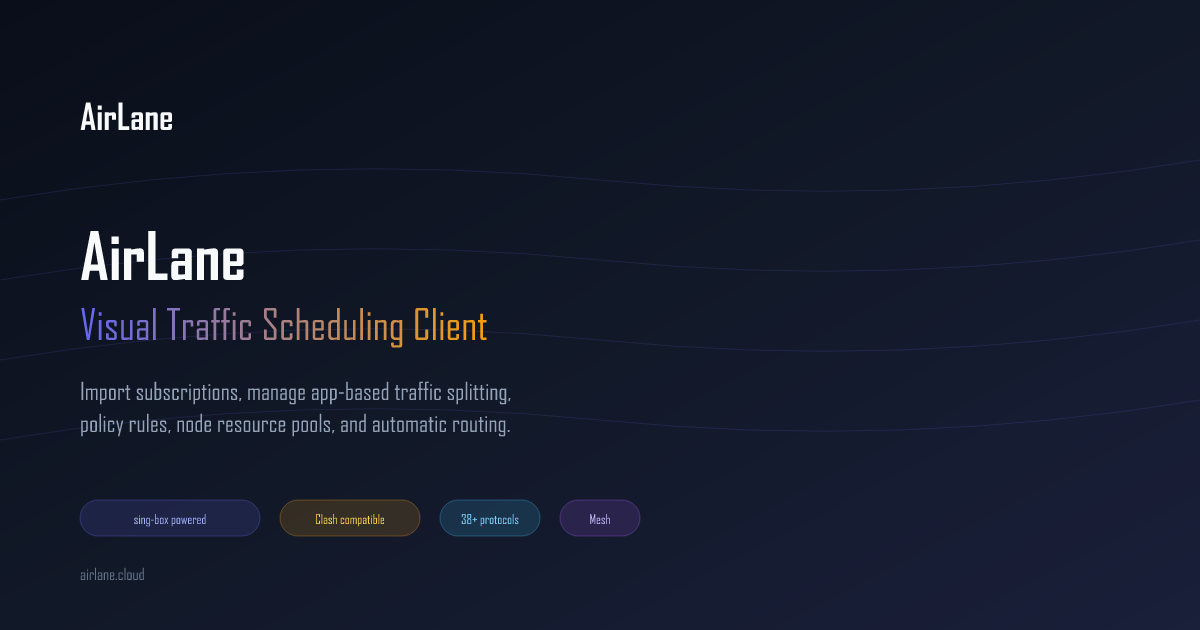
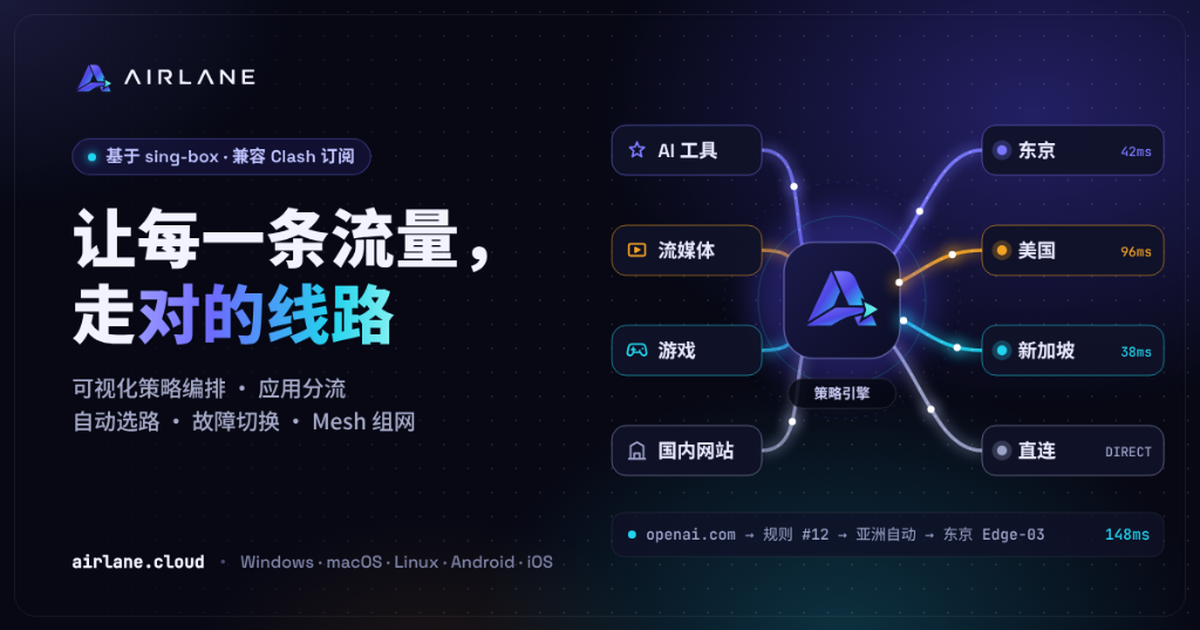
Replace OG images with localized versions
New designed OG cards (zh + en) replace the old og-image.png. Resized to
1200x630 standard. English routes and the shared landing-head helper now
emit /brand/og-image-en.png; zh pages keep /brand/og-image.png.

Generated with [Devin](https://devin.ai)

diff --git a/src/routes/en.index.tsx b/src/routes/en.index.tsx
@@ -24,12 +24,12 @@ export const Route = createFileRoute("/en/")({
       { property: "og:url", content: canonical("/en/") },
       { property: "og:site_name", content: "AirLane" },
       { property: "og:locale", content: "en_US" },
-      { property: "og:image", content: canonical("/brand/og-image.png") },
+      { property: "og:image", content: canonical("/brand/og-image-en.png") },
       { property: "og:image:width", content: "1200" },
       { property: "og:image:height", content: "630" },
       { name: "twitter:card", content: "summary_large_image" },
       { name: "twitter:title", content: "AirLane | Visual Traffic Scheduling Client" },
-      { name: "twitter:image", content: canonical("/brand/og-image.png") },
+      { name: "twitter:image", content: canonical("/brand/og-image-en.png") },
       {
         name: "twitter:description",
         content:

diff --git a/src/components/alt-landing.tsx b/src/components/alt-landing.tsx
@@ -264,10 +264,10 @@ export function altLandingHead(opts: {
       { property: "og:url", content: seo.canonical(isEn ? enPath : path) },
       { property: "og:site_name", content: "AirLane" },
       { property: "og:locale", content: isEn ? "en_US" : "zh_CN" },
-      { property: "og:image", content: seo.canonical("/brand/og-image.png") },
+      { property: "og:image", content: seo.canonical(isEn ? "/brand/og-image-en.png" : "/brand/og-image.png") },
       { name: "twitter:card", content: "summary_large_image" },
       { name: "twitter:title", content: opts.ogTitle },
-      { name: "twitter:image", content: seo.canonical("/brand/og-image.png") },
+      { name: "twitter:image", content: seo.canonical(isEn ? "/brand/og-image-en.png" : "/brand/og-image.png") },
     ],
     links: [
       { rel: "canonical", href: seo.canonical(isEn ? enPath : path) },

diff --git a/src/routes/en.mihomo-alternative.tsx b/src/routes/en.mihomo-alternative.tsx
@@ -28,10 +28,10 @@ export const Route = createFileRoute("/en/mihomo-alternative")({
       { property: "og:url", content: canonical("/en/mihomo-alternative") },
       { property: "og:site_name", content: "AirLane" },
       { property: "og:locale", content: "en_US" },
-      { property: "og:image", content: canonical("/brand/og-image.png") },
+      { property: "og:image", content: canonical("/brand/og-image-en.png") },
       { name: "twitter:card", content: "summary_large_image" },
       { name: "twitter:title", content: "AirLane — Best Mihomo Alternative" },
-      { name: "twitter:image", content: canonical("/brand/og-image.png") },
+      { name: "twitter:image", content: canonical("/brand/og-image-en.png") },
     ],
     links: [
       { rel: "canonical", href: canonical("/en/mihomo-alternative") },

diff --git a/src/routes/en.clash-alternative.tsx b/src/routes/en.clash-alternative.tsx
@@ -28,10 +28,10 @@ export const Route = createFileRoute("/en/clash-alternative")({
       { property: "og:url", content: canonical("/en/clash-alternative") },
       { property: "og:site_name", content: "AirLane" },
       { property: "og:locale", content: "en_US" },
-      { property: "og:image", content: canonical("/brand/og-image.png") },
+      { property: "og:image", content: canonical("/brand/og-image-en.png") },
       { name: "twitter:card", content: "summary_large_image" },
       { name: "twitter:title", content: "AirLane — Best Clash Alternative" },
-      { name: "twitter:image", content: canonical("/brand/og-image.png") },
+      { name: "twitter:image", content: canonical("/brand/og-image-en.png") },
     ],
     links: [
       { rel: "canonical", href: canonical("/en/clash-alternative") },
